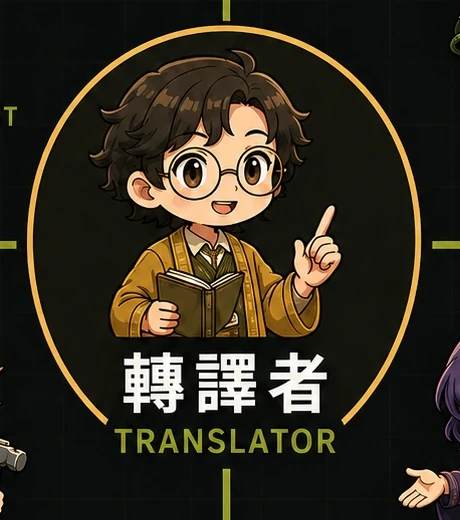
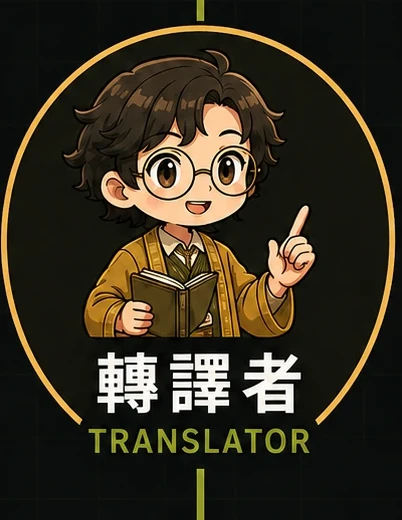
Polish You Are Here event keepsake

diff --git a/public/assets/css/main.css b/public/assets/css/main.css
@@ -5640,8 +5640,8 @@ textarea.form__control {
 }
 .event-legend__art {
   display: block;
-  width: 100%;
-  height: 100%;
+  width: calc(100% - 0.5rem);
+  height: calc(100% - 0.5rem);
   object-fit: contain;
   object-position: center;
 }
@@ -5743,7 +5743,7 @@ textarea.form__control {
 .event-motto {
   position: relative;
   display: flex;
-  min-height: clamp(10.5rem, 16vw, 13rem);
+  min-height: clamp(9rem, 16vw, 13rem);
   margin: 0;
   overflow: hidden;
   padding: clamp(1.25rem, 3vw, 1.9rem);
